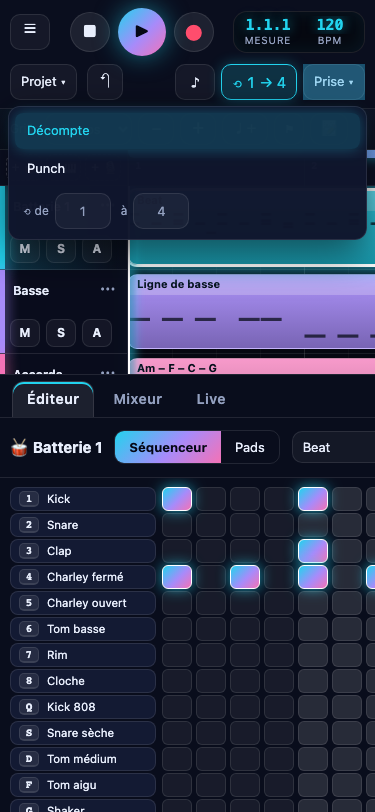
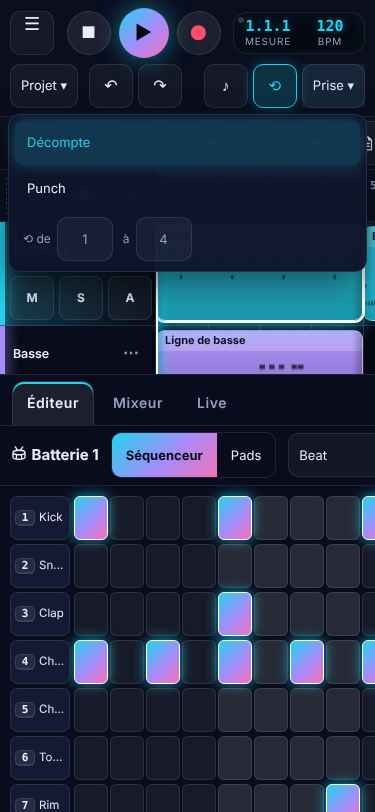
feat(V18): téléphone — Rétablir visible, quatre mesures, séquenceur par 8 pas, cibles de 44 px (audit D2-D4)
Repris de la branche v19-telephone (5a9f9b8), jamais fusionnée dans main.
Rétablir sur la deuxième ligne (plage de boucle masquée sur le bouton, gardée dans
la bulle) ; zoom de départ à quatre mesures ; séquenceur en pages de 8 pas
glissées, cases 34 × 44 ; au moins 44 px pour tout ce qu'on touche.
Adapté à UX15 : PH01-PH04 ferment l'accueil du premier lancement, PH04 attend
l'ouverture en douceur des menus ; la remise à zéro de l'accordeur était déjà
dans main. MB01/MB02 adaptés.

Claude-Session: https://claude.ai/code/session_01QVrBbqGuKQHJ4K4kwEfkG8

diff --git a/src/style.css b/src/style.css
@@ -368,21 +368,22 @@ dialog form { display: flex; justify-content: flex-end; margin-top: 14px; }
 
 /* Téléphone : barre supérieure sur une ligne défilante, en-têtes de piste compacts */
 @media (max-width: 760px) {
-  :root { --headw: 128px; }
+  :root { --headw: 156px; }
   /* Téléphone (V18) : ligne 1 = ☰, transport, compteur ; ligne 2 = projet, métronome, boucle, prise */
   #top { padding: 8px 10px; gap: 8px; backdrop-filter: none; background: #0a0e1e; justify-content: space-between; }
-  .brand, .dtime, #bTap, #sig, #bRedo { display: none !important; }
+  .brand, .dtime, #bTap, #sig { display: none !important; }
   #more { order: -1; margin-left: 0; }
   #more > summary { display: flex; width: 40px; justify-content: center; font-size: 18px; }
   #more > .grp.out { position: fixed; left: 8px; right: 8px; z-index: 30; flex-wrap: wrap; padding: 10px; border-radius: 12px; background: rgba(15, 21, 44, .98); border: 1px solid var(--line); box-shadow: 0 12px 40px rgba(0, 0, 0, .6); }
-  .grp.proj { order: 3; } .grp.play { order: 4; margin-left: auto; gap: 6px; } #bRename { display: block; }
+  .grp.proj { order: 3; gap: 5px; } .grp.play { order: 4; margin-left: auto; gap: 5px; } #bRename { display: block; }
+  #top { row-gap: 6px; } .grp.play #bLoop .lrange { display: none; }
   .grp.proj .pname { display: none; } .grp.proj #menu > summary { border-radius: 10px; }
   .menu-list { position: fixed; left: 8px; right: 8px; min-width: 0 !important; }
   #menu .menu-list, #mTake .menu-list { left: 8px; right: 8px; }
   #abar { padding: 4px 10px; gap: 6px; }
-  .tbtn { width: 40px; height: 40px; } .tbtn.play { width: 48px; height: 48px; }
+  .tbtn { width: 44px; height: 44px; } .tbtn.play { width: 50px; height: 50px; }
   .display { gap: 10px; padding: 4px 8px; } .display span, .display input { min-width: 52px; width: 52px; font-size: 15px; }
-  .head { padding: 6px 2px 6px 10px; } .head .tvol, .head .ticon { display: none; } .head .tname { padding: 0 2px; font-size: 12.5px; letter-spacing: -.01em; } .tmenu > summary.tmore { min-width: 26px; }
+  .head { padding: 5px 2px 5px 10px; } .head .tvol, .head .ticon { display: none; } .head .tname { padding: 0 2px; height: 44px; font-size: 12.5px; letter-spacing: -.01em; }
   .corner .add span { display: none; }
   .ahead .albl { display: none; }
   main { grid-template-rows: 1fr 54vh; }
@@ -397,6 +398,22 @@ dialog form { display: flex; justify-content: flex-end; margin-top: 14px; }
   .ebar .tip, .synth .tip { display: none; }
   .escroll { padding: 8px 10px; }
   .pact { display: none; } /* au doigt, les réglages d'un pad passent par la liste à côté des pads */
+  /* V18 (audit D4) : au doigt, au moins 44 px pour tout ce qu'on touche */
+  :root { --th: 104px; }
+  .pill, .icon, select, #top summary, #abar .pill, #abar .icon, #abar select, .ebar button, .ebar select, .seg, .head .mini, .tmenu > summary.tmore, .corner .add, #tabs button { min-height: 44px; min-width: 44px; }
+  .head .hrow { gap: 5px; } .head .mini { min-width: 44px; }
+  .corner, .ruler { height: 52px; } .corner { align-items: center; } .corner .add { padding: 0 6px; }
+  .menu-list button, .menu-list .pill { min-height: 44px; }
+  /* V18 (audit D3) : séquenceur par pages de 8 pas, glissées au doigt ; cases de 44 px de haut */
+  .grp.play #bMetro, .grp.play #bLoop { min-width: 44px; }
+  .mini-in input, .cname-in, .pname { height: 44px; }
+  .dgrid { --lw: 60px; }
+  .ed-grid.dgrid { scroll-snap-type: x mandatory; }
+  .escroll:has(> .dgrid), .escroll .dgrid { scroll-snap-type: x mandatory; }
+  .dlabel { width: var(--lw); min-width: var(--lw); height: 44px; gap: 4px; padding: 0 4px; }
+  .dlabel span { overflow: hidden; text-overflow: ellipsis; }
+  .dgrid .cell { width: 34px; min-width: 34px; height: 44px; margin: 2px 1px; }   /* 8 pas visibles : 8 × 36 px + étiquettes sur 375 px */
+  .dgrid .cell.page { scroll-snap-align: start; scroll-margin-left: calc(var(--lw) + 14px); }   /* étiquette collante + marge + bord de la zone */
 }
 
 /* ================= V5 ================= */

diff --git a/src/ui/top.ts b/src/ui/top.ts
@@ -240,7 +240,9 @@ export function renderTop() {
   $<HTMLInputElement>('loopS').value = String(p.loopStart + 1);
   $<HTMLInputElement>('loopE').value = String(p.loopStart + p.loopLen);
   const lr = t('top.loopRange', p.loopStart + 1, p.loopStart + p.loopLen);
-  $('bLoop').textContent = `⟲ ${p.loopStart + 1} → ${p.loopStart + p.loopLen}`; $('bLoop').title = t('top.loopTip') + ' — ' + lr; $('bLoop').setAttribute('aria-label', t('top.loop') + ' — ' + lr);
+  // Sur téléphone, la plage est masquée sur le bouton ; la bulle et le nom accessible la gardent.
+  $('bLoop').replaceChildren('⟲ ', h('span', { class: 'lrange' }, `${p.loopStart + 1} → ${p.loopStart + p.loopLen}`));
+  $('bLoop').title = t('top.loopTip') + ' — ' + lr; $('bLoop').setAttribute('aria-label', t('top.loop') + ' — ' + lr);
   $('bExport').title = t('top.exportTip') + ' — ' + exportSummary();
   $<HTMLSelectElement>('snap').value = String(S.snap);
   $<HTMLSelectElement>('sig').value = String(p.sig);

diff --git a/src/ui/editor.ts b/src/ui/editor.ts
@@ -168,7 +168,7 @@ function drumEditor(tr: Track, c: Clip | null) {
     const line = h('div', { class: 'drow' },
       h('button', { class: 'dlabel', title: t('drum.listen', padName(tr, r)), onclick: () => engine.pad(tr, r) }, h('kbd', {}, keyLabel(PAD_KEYS[r])), h('span', {}, padName(tr, r))));
     row.forEach((v, s) => line.append(h('button', {
-      class: `cell${v ? ' on' : ''}${v && v < 1 ? ' soft' : ''}${beat(s) % 2 ? ' alt' : ''}${isBar(s) ? ' barstart' : ''}`,
+      class: `cell${v ? ' on' : ''}${v && v < 1 ? ' soft' : ''}${beat(s) % 2 ? ' alt' : ''}${isBar(s) ? ' barstart' : ''}${s % 8 === 0 ? ' page' : ''}`,   // page : arrêt du glissé par 8 pas sur téléphone
       data: { r: String(r), s: String(s) }, 'aria-label': `${padName(tr, r)} ${s + 1}`, 'aria-pressed': String(!!v),
       tabindex: r === gridPos.r && s === gridPos.s ? '0' : '-1',
     })));

diff --git a/src/main.ts b/src/main.ts
@@ -199,6 +199,8 @@ function crashNotice() {
   S.selTrack = S.project.tracks[0]?.id ?? '';
   S.selClip = S.project.tracks[0]?.clips[0]?.id ?? '';
   initArrDrop(); initArrZoom(); initFileInputs(); listenSystemOpen();
+  // Téléphone (audit D3) : le morceau s'ouvre avec quatre mesures visibles au lieu d'une et demie.
+  if (matchMedia('(max-width: 760px)').matches) S.px = clamp((innerWidth - 156 - 12) / (4 * (S.project.sig || 4) * 4), 3, 44);
   rebuild();
   document.getElementById('boot')?.remove();   // l'écran d'attente d'index.html laisse la place à l'application
   engine.prepare().then(() => emit()); // instruments réels du projet rouvert

diff --git a/docs/PASSATION.md b/docs/PASSATION.md
@@ -704,8 +704,9 @@ Demande du propriétaire : refonte ciblée de l'interface, en commençant par la
 
 - **Correctifs de l'audit** (session d'audit, branche `v18-correctifs`, fusionnée dans `v18` en avance rapide à `0007113` avec l'accord du propriétaire) : D5 séquenceur au clavier (une seule case dans l'ordre de Tab, flèches, Début, Fin), D6 prise d'un seul tenant, D7 tempo au centième, D8 bandeau de sauvegarde impossible avec « Enregistrer en fichier », D9 vraie disposition du clavier, D10 accordeur confirmé sur 3 mesures sur 5, D11 export des projets de 12 pistes ou plus rendu par groupes en parallèle (42 s → 22,9 s pour le gros projet de 40 pistes). Cas AD01-AD08, en fin de `qa/run.cjs`. Détail, mesures et non-vérifié : `docs/correctifs-audit-2026-11.md`. Campagne 353/353 (session d'audit).
 
+- **Téléphone, défauts D2 à D4 de l'audit** (branche `v19-telephone`, partie de `v19` à `06d3aa6`, 19/11/2026) : Rétablir de nouveau visible (la plage de la boucle est masquée sur le bouton pour lui faire place, la bulle la garde) ; le morceau s'ouvre avec quatre mesures visibles (zoom de départ calculé dans `main.ts`) ; séquenceur par pages de 8 pas entiers, cases de 34 × 44 px, glissé arrêté pile sur les pas 9, 17… (`scroll-snap`, classe `page` tous les 8 pas dans `editor.ts`) ; tout ce qu'on touche fait au moins 44 px (pistes hautes de 104 px, colonne des pistes à 156 px, M/S/A, ⋯, ajout de pistes, menus, barre d'arrangement, éditeur, onglets). Exceptions assumées : les cases du séquenceur font 34 px de large (8 pas sur 375 px), le champ du tempo est petit mais tout le compteur autour le rend touchable. QA PH01-PH04 ; MB01 (colonne des pistes ≤ 160 px) et MB02 (glissé calculé d'après le zoom, couloir d'automation amené à l'écran) adaptés. L'accordeur repart de zéro à chaque ouverture (avant, l'aiguille glissait depuis la note de sa dernière utilisation ; AD06 échouait dans la campagne complète). Campagne complète 404/404. **Repris sur `claude/suite` le 21/11/2026** (la branche n'avait jamais été fusionnée) : adapté à UX15 (accueil du premier lancement, menus qui s'ouvrent en douceur ; l'accordeur remis à zéro y était déjà).
+
 ### Reste à faire (suite de la V18)
-- Défauts D2 à D4 de l'audit (`docs/audit-2026-11.md`, branche `audit-2026-11`) : bouton Rétablir absent sur téléphone ; le morceau n'affiche qu'une mesure et demie, le séquenceur 6 pas sur 16 ; cibles de moins de 32 px au doigt. D5 à D11 sont corrigés par une autre session sur `v18-correctifs`.
 - Ajout de pistes : toujours dans le coin des pistes (la maquette les plaçait dans la barre d'arrangement).
 
 ### Non vérifié

diff --git a/README.md b/README.md
@@ -44,6 +44,8 @@ Sur **téléphone**, la barre tient sur deux lignes sans déborder : ☰, transp
 
 **Correctifs de l'audit de novembre 2026** (détail : `docs/correctifs-audit-2026-11.md`) : séquenceur au clavier avec les flèches, une prise sur plusieurs mesures donne un seul clip, tempo au centième (93,5), bandeau quand la sauvegarde devient impossible (appareil plein) avec « Enregistrer en fichier », lettres du clavier prises de la vraie disposition, accordeur plus stable sur une machine chargée, export des gros projets environ deux fois plus rapide (pistes rendues par groupes sur plusieurs cœurs).
 
+**Téléphone** : Rétablir est sur la deuxième ligne ; le morceau s'ouvre avec quatre mesures visibles ; le séquenceur montre 8 pas à la fois en grandes cases, un glissé du doigt passe aux 8 suivants ; tout ce qu'on touche fait au moins 44 px.
+
 Les menus s'ouvrent d'un clic ou d'un toucher et se referment d'un clic ailleurs ou avec Échap (le focus revient au bouton). Les raccourcis clavier ne changent pas.
 
 ## Piano électrique, basse et percussions (v0.17.1)
